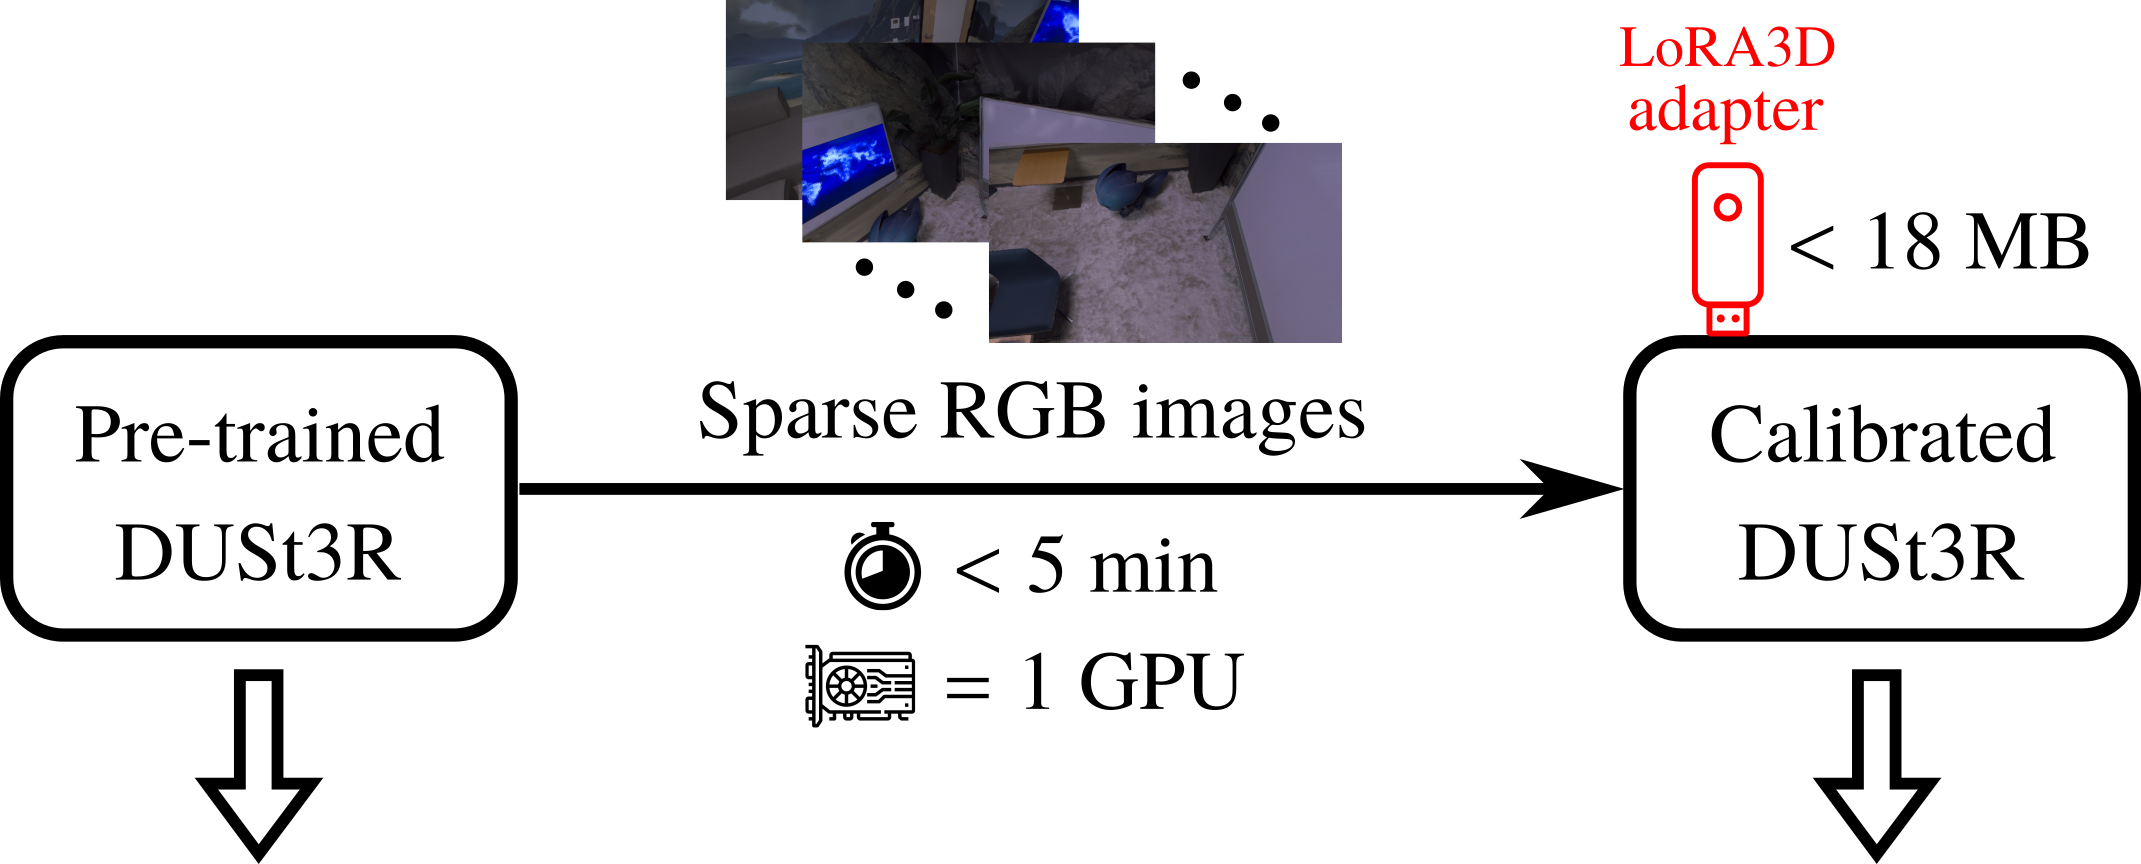
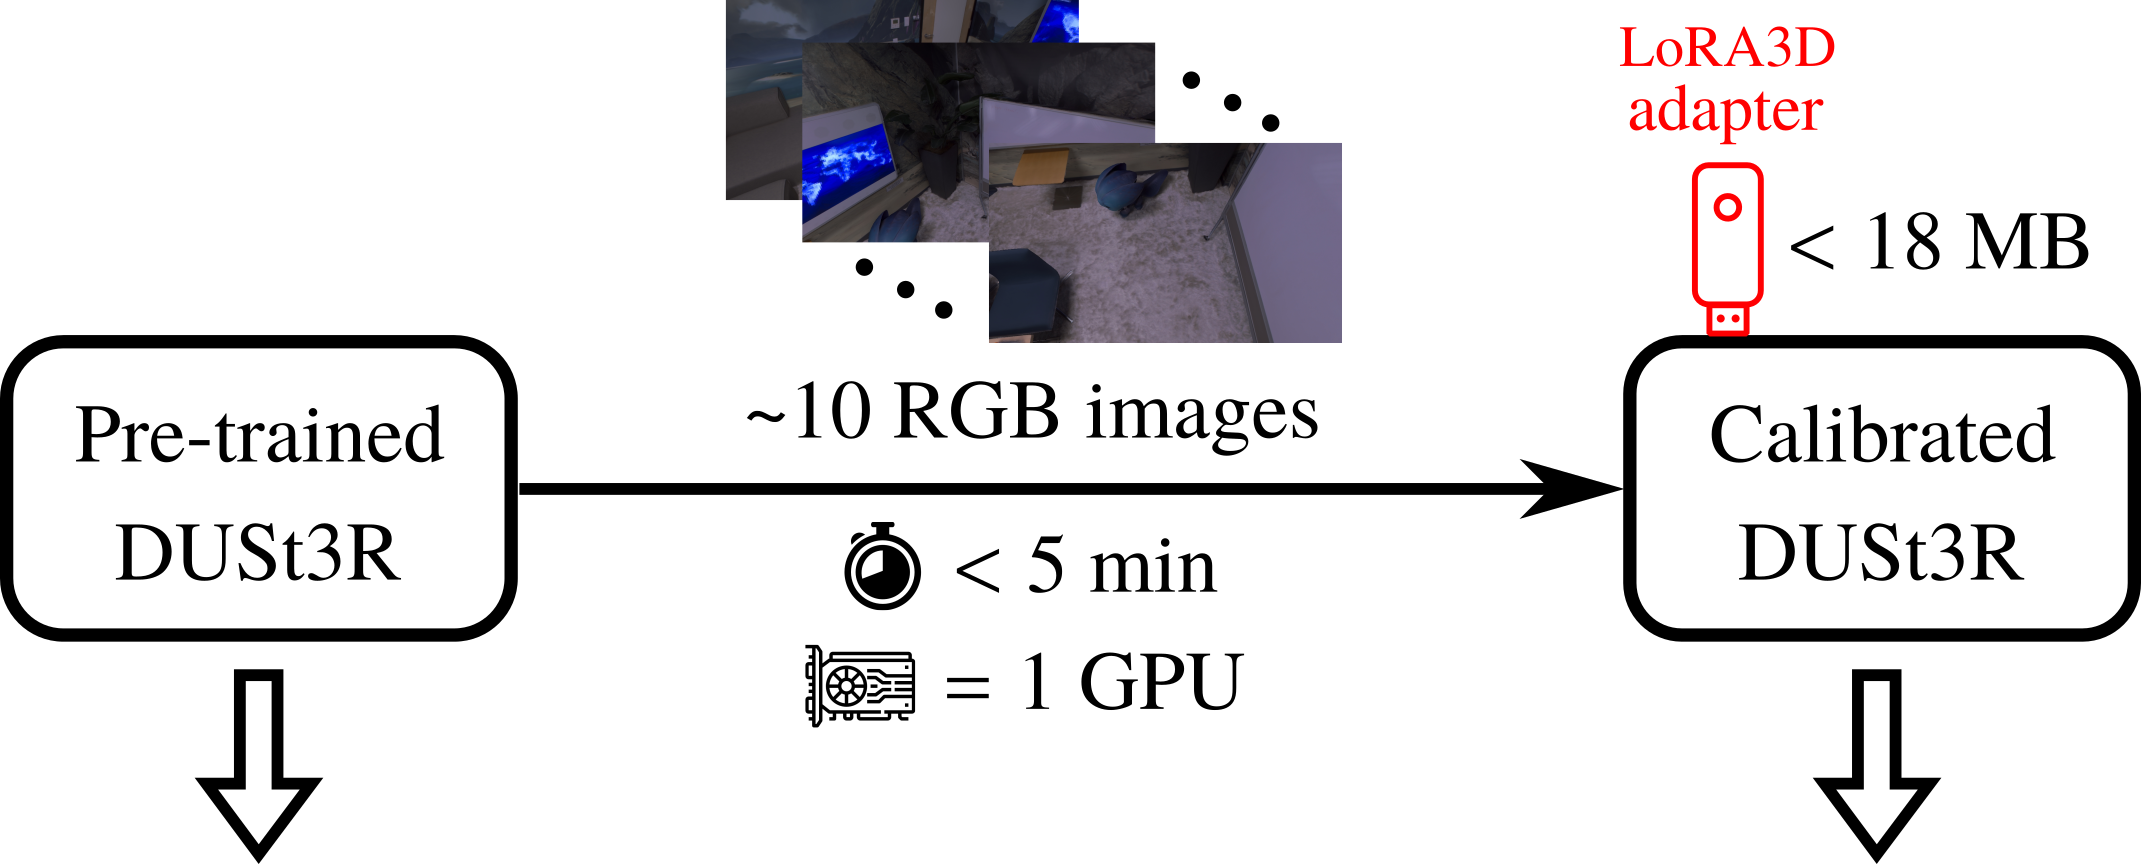
update replica waymo figs

Changed region(s): [[0.3083, 0.4375, 0.6474, 0.5312]]

diff --git a/lora3d/index.html b/lora3d/index.html
@@ -262,7 +262,7 @@
       <div class="columns is-centered has-text-centered">
         <div class="column is-four-fifths">
             <p class="has-text-justified is-size-5">
-              <strong>TL;DR</strong>: 3D geometric foundation models (e.g. DUSt3R) use LoRA3D to <strong>self-specialize</strong> to the target scene using <strong>just 10 uncalibrated images</strong> in under <strong>5 min</strong> on <strong>a single GPU</strong>.
+              <strong>TL;DR</strong>: LoRA3D help 3D geometric foundation models (e.g. DUSt3R) to <strong>self-specialize</strong> to your target scene using <strong>just around 10 uncalibrated images</strong> in under <strong>5 min</strong> on <strong>a single GPU</strong>.
             </p>
           </div>
         </div>
@@ -404,7 +404,7 @@
                       </figure>
                     </div>
                     <!-- Added an empty column to create more space between images -->
-                    <div class="column is-1"></div>
+                    <div class="column is-2"></div>
                     <div class="column">
                       <figure>
                         <img width="100%" src="static/images/tum_after.png" alt="TUM dataset reconstruction after LoRA3D calibration">
@@ -416,7 +416,7 @@
               <div class="columns is-centered">
                 <div class="column">
                   <p class="has-text-justified">
-                    The figures above show estimated (red frustums) and ground truth (green frustums) camera poses for 10 sample images.
+                    The figures above show <span style="color: red;">estimated</span> and <span style="color: green;">ground truth</span> camera poses for 10 sample images in TUM fr2_xyz.
                     The camera pose estimates are made more accurate by self-calibration.
                   </p>
                 </div>
